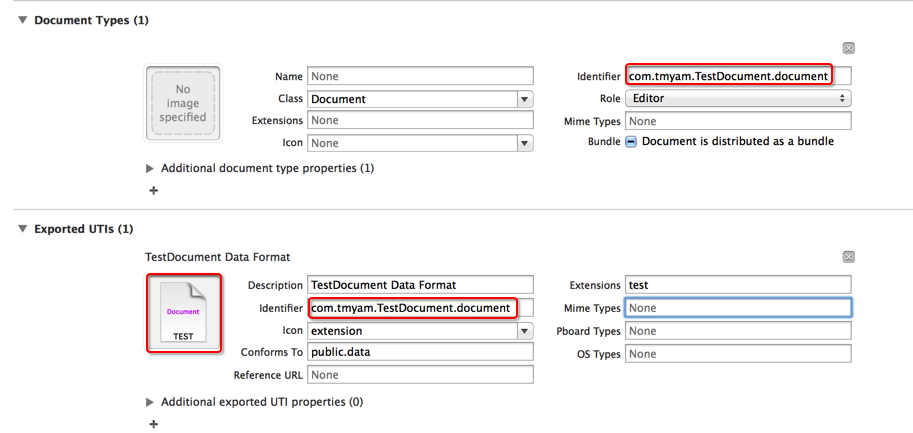
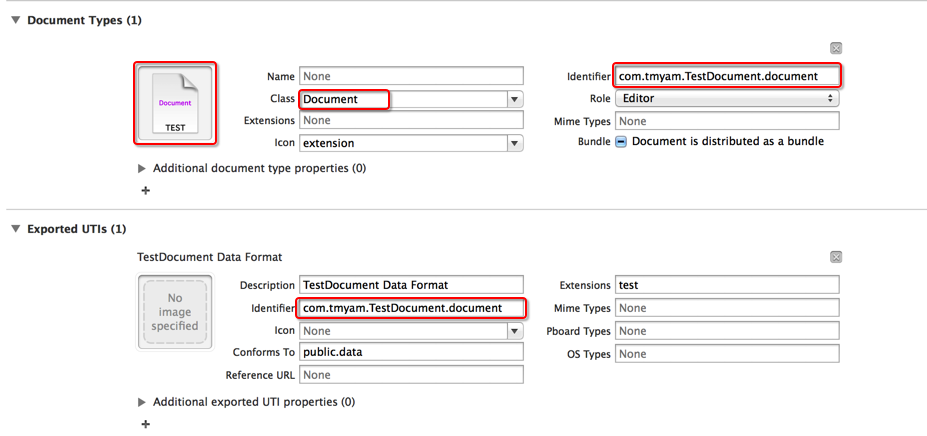
Site updated at 2014-03-02 12:36:53 UTC

diff --git a/blog/2014/02/20/chuang-jian-wen-dang-xing-ying-yong/index.html b/blog/2014/02/20/chuang-jian-wen-dang-xing-ying-yong/index.html
@@ -154,7 +154,7 @@ $(document).bind('DOMNodeInserted', function(event) {
 <li>在工程的<em>Info</em>里进行设置，如下图。 <br/>
 <img src="/images/2014/02/20/info.png" alt="temp" /> <br/>
 <strong>Document Types</strong>设置文档关联的文件，<em>Identifier</em>为文档标示。 <br/>
-<strong>Exported UTIs</strong>为具体的文档设置，<em>Identifier</em>必须和<strong>Document Types</strong>的一致，这里面可以设置图标，扩展名等等。 <br/>
+<strong>Exported UTIs</strong>为具体的文档设置，<em>Identifier</em>必须和<strong>Document Types</strong>的一致，这里面可以设置图标，扩展名等等，注意图标必须设置在<strong>Document Types</strong>里面，运行之后就会立即生效。 <br/>
 而且这两项都是可以设置多个关联的，关联多个文档类，关联多种格式。</li>
 </ul>
 
